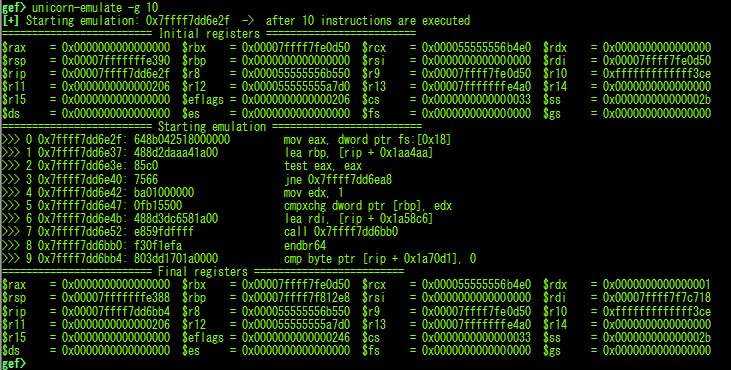
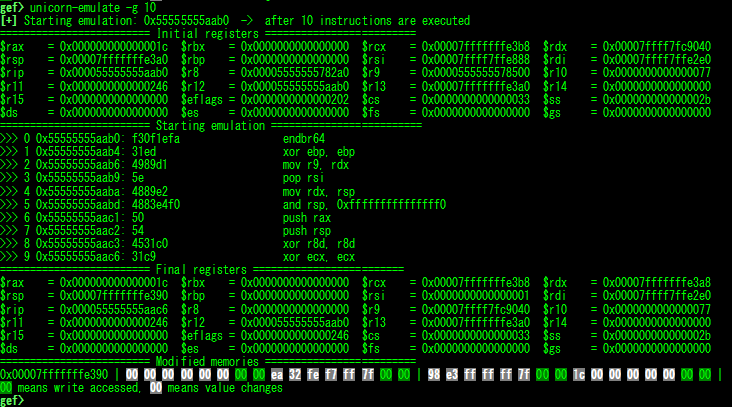
fix unicorn-emulate

diff --git a/gef.py b/gef.py
@@ -7832,6 +7832,7 @@ class UnicornEmulateCommand(GenericCommand):
         content += "nb_gadget = {nb_gadget}\n".format(nb_gadget=nb_gadget)
         content += "syscall_register = '{syscall_reg}'\n".format(syscall_reg=current_arch.syscall_register)
         content += "count = 0\n"
+        content += "changed_mem = {}\n"
         if is_arm32():
             content += "enable_thumb = {thumb_mode}\n".format(thumb_mode=int(thumb_mode))
             content += "\n"
@@ -7870,11 +7871,22 @@ class UnicornEmulateCommand(GenericCommand):
         content += "        emu.emu_stop()\n"
         content += "    return\n"
         content += "\n"
-        content += "def mem_invalid_hook(uc, access, address, size, value, user_data):\n"
-        content += "    if access == unicorn.UC_MEM_WRITE_UNMAPPED:\n"
+        content += "def mem_invalid_hook(emu, access, address, size, value, user_data):\n"
+        content += "    if access == unicorn.UC_MEM_WRITE_INVALID:\n"
         content += "        print('  --> Invalid memory access; addr:{:#x}, size:{:#x}, value:{:#x}'.format(address, size, value))\n"
-        content += "    elif access == unicorn.UC_MEM_READ_UNMAPPED:\n"
+        content += "    elif access == unicorn.UC_MEM_READ_INVALID:\n"
         content += "        print('  --> Invalid memory access; addr:{:#x}, size:{:#x}'.format(address, size))\n"
+        content += "    return\n"
+        content += "\n"
+        content += "def mem_write_hook(emu, access, address, size, value, user_data):\n"
+        content += "    before = emu.mem_read(address, size)\n"
+        content += "    for i in range(size):\n"
+        content += "        accessed_address = address + i\n"
+        content += "        if accessed_address not in changed_mem:\n"
+        content += "            changed_mem[accessed_address] = {}\n"
+        content += "            changed_mem[accessed_address]['before'] = before[i]\n"
+        content += "        changed_mem[accessed_address]['after'] = (value >> (8*i)) & 0xff\n"
+        content += "        changed_mem[accessed_address]['type'] = 'modified'\n"
         content += "    return\n"
         content += "\n"
         content += "def intr_hook(emu, intno, data):\n"
@@ -7890,6 +7902,47 @@ class UnicornEmulateCommand(GenericCommand):
         content += "    for i, r in enumerate(regs):\n"
         content += "        print('{{:7s}} = {{:#0{ptrsize}x}}  '.format(r, emu.reg_read(regs[r])), end='')\n".format(ptrsize=current_arch.ptrsize * 2 + 2)
         content += "        if (i % 4 == 3) or (i == len(regs)-1): print('')\n"
+        content += "    return\n"
+        content += "\n"
+        content += "def print_mems(emu):\n"
+        content += "    aligned_addrs = set([x & ~0xf for x in changed_mem.keys()])\n"
+        content += "    for aligned_addr in aligned_addrs:\n"
+        content += "        for pad_addr in range(aligned_addr, aligned_addr+0x10):\n"
+        content += "            if pad_addr in changed_mem:\n"
+        content += "                pass\n"
+        content += "            else:\n"
+        content += "                changed_mem[pad_addr] = {}\n"
+        content += "                changed_mem[pad_addr]['before'] = emu.mem_read(pad_addr, 1)[0]\n"
+        content += "                changed_mem[pad_addr]['after'] = emu.mem_read(pad_addr, 1)[0]\n"
+        content += "                changed_mem[pad_addr]['type'] = None\n"
+        content += "    slicer = lambda data, n: [data[i:i+n] for i in range(0, len(data), n)]\n"
+        content += "    sliced = slicer(sorted(changed_mem.items()), 16)\n"
+        content += "    prev_address = None\n"
+        content += "    for chunk in sliced:\n"
+        content += "        address = chunk[0][0]\n"
+        content += "        prefix = '{:#018x}'.format(address)\n"
+        content += "        before = ''\n"
+        content += "        after = ''\n"
+        content += "        for i in range(16):\n"
+        content += "            a = chunk[i][1]['after']\n"
+        content += "            b = chunk[i][1]['before']\n"
+        content += "            if a == b:\n"
+        content += "                if chunk[i][1]['type'] is None:\n"
+        content += "                    before += '{:02x} '.format(b)\n"
+        content += "                    after  += '{:02x} '.format(a)\n"
+        content += "                else:\n"
+        content += "                    before += '\033[2m{:02x}\033[0m '.format(b)\n"
+        content += "                    after  += '\033[2m{:02x}\033[0m '.format(a)\n"
+        content += "            else:\n"
+        content += "                before += '\033[2m\033[1m{:02x}\033[0m '.format(b)\n"
+        content += "                after  += '\033[2m\033[1m{:02x}\033[0m '.format(a)\n"
+        content += "        line = '{:s} | {:s}| {:s}|'.format(prefix, before, after)\n"
+        content += "        if prev_address is not None and prev_address+0x10 != address:\n"
+        content += "            print('*')\n"
+        content += "        print(line)\n"
+        content += "        prev_address = address\n"
+        content += "    print('\033[2m00\033[0m means write accessed, ', end='')\n"
+        content += "    print('\033[2m\033[1m00\033[0m means value changes')\n"
         content += "    return\n"
 
         if is_x86():
@@ -7978,7 +8031,8 @@ class UnicornEmulateCommand(GenericCommand):
         content += "    emu.hook_add(unicorn.UC_HOOK_INTR, intr_hook)\n"
         if is_x86_64():
             content += "    emu.hook_add(unicorn.UC_HOOK_INSN, syscall_hook, None, 1, 0, unicorn.x86_const.UC_X86_INS_SYSCALL)\n"
-            content += "    emu.hook_add(unicorn.UC_HOOK_MEM_READ_UNMAPPED | unicorn.UC_HOOK_MEM_WRITE_UNMAPPED, mem_invalid_hook)\n"
+        content += "    emu.hook_add(unicorn.UC_HOOK_MEM_READ_INVALID | unicorn.UC_HOOK_MEM_WRITE_INVALID, mem_invalid_hook)\n"
+        content += "    emu.hook_add(unicorn.UC_HOOK_MEM_WRITE, mem_write_hook)\n"
         content += "    return emu\n"
 
         content += "\n"
@@ -7996,6 +8050,8 @@ class UnicornEmulateCommand(GenericCommand):
         content += "\n"
         content += "    print('========================= Final registers =========================')\n"
         content += "    print_regs(emu, registers)\n"
+        content += "    print('========================= Modified memories =========================')\n"
+        content += "    print_mems(emu)\n"
         content += "    return\n"
         content += "\n"
         content += "\n"

diff --git a/README.md b/README.md
@@ -237,6 +237,7 @@ All of these features are experimental. Tested on Ubuntu 22.04.
 * `unicorn-emulate`: is improved.
     * It reads and writes correctly to the address pointed to by `$fs`/`$gs`.
     * It supports a new mode to stop after executing N instructions (`-g`).
+    * It shows changed memories.
         * ![](https://raw.githubusercontent.com/bata24/gef/dev/images/unicorn-emulate.png)
 * `ropper`: is improved.
     * It does not reset autocomplete settings after calling imported ropper.
